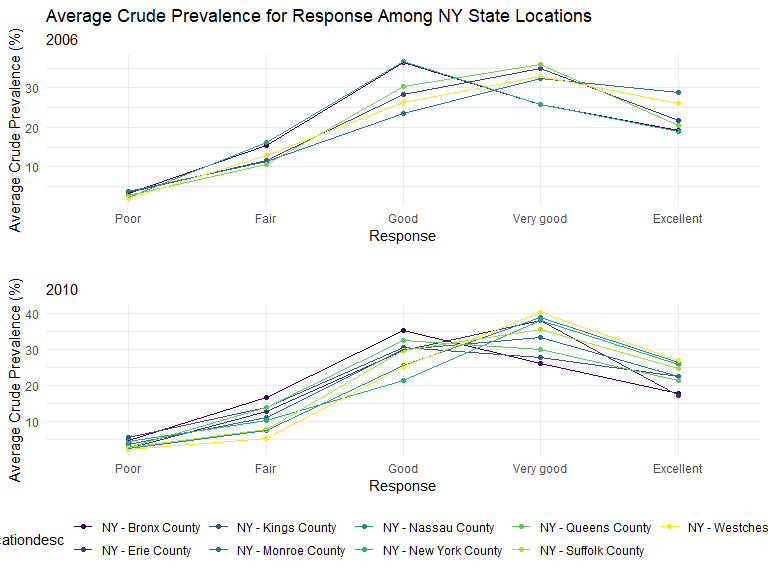
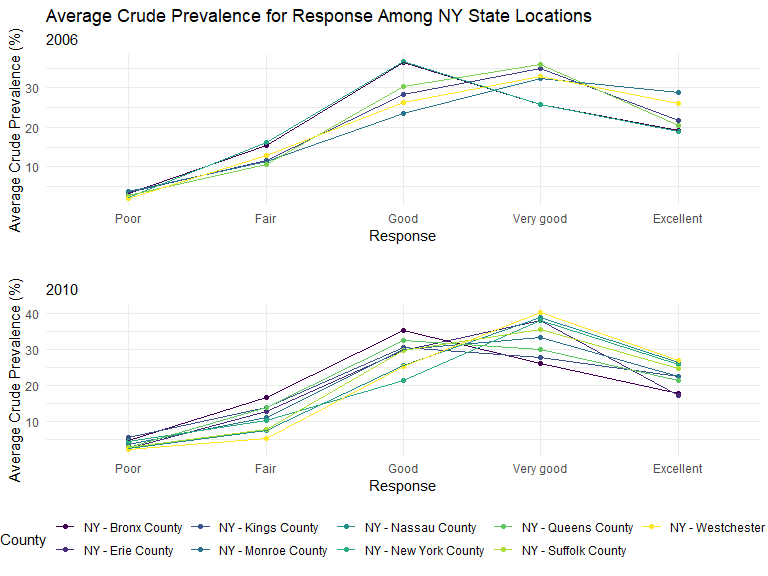
Finished descriptions and formatting for questions 1 and 2

Changed region(s): [[0.0, 0.9062, 1.0, 0.9688]]

diff --git a/p8105_hw3_jt3175.md b/p8105_hw3_jt3175.md
@@ -219,12 +219,16 @@ between 2002 and 2010.
 | TX    |      16 |
 | WA    |      10 |
 
-Construct a dataset that is limited to Excellent responses, and
-contains, year, state, and a variable that averages the data\_value
-across locations within a state. Make a “spaghetti” plot of this average
-value over time within a state (that is, make a plot showing a line for
-each state across years – the geom\_line geometry and group aesthetic
-will help).
+Constructed a dataset that is limited to “Excellent” responses. It
+contains *year*, *state*, and *avg\_data\_value*, which is a variable
+that averages the *data\_value* across locations within a state.
+
+The below spaghetti plot shows the average of crude prevalence (%) over
+time within a state. For the most part, the crude prevalence is between
+15% and 30%, with West Virginia having a noticable sharp decrease in
+crude prevalence in 2005 and again in 2009. Indianna also had a low
+crude prevalence in 2007. We also notice that DC has a high prevalence
+throughout, from 2002 to 2010.
 
 ``` r
 brfss_excellent = brfss %>% 
@@ -250,9 +254,14 @@ spaghetti +
 
 <img src="p8105_hw3_jt3175_files/figure-gfm/unnamed-chunk-10-1.png" width="90%" />
 
-Make a two-panel plot showing, for the years 2006, and 2010,
-distribution of data\_value for responses (“Poor” to “Excellent”) among
-locations in NY State.
+Below is a two-panel plot showing, for the years 2006, and 2010, the
+distribution of average crude prevalence (%) for responses “Poor” to
+“Excellent” among locations in NY State. We see for both 2006 and
+2010, “Poor” responses had a low average crude prevalence for all of the
+counties. There is a general increasing trend for “Fair” and then “Good”
+responses, and then “Very good” and “Excellent” taper off. The trends
+are similar for most counties, though we do see crossover, particularly
+between “Good” and “Very good” for both 2006 and 2010.
 
 ``` r
 brfss_NY_2006 = brfss %>% 
@@ -295,6 +304,9 @@ NY_2010 =
     x = "Response",
     y = "Average Crude Prevalence (%)"
   )
+
+NY_2010 = 
+  NY_2010 + labs(color = "County")
 
 (NY_2006/NY_2010)
 ```
